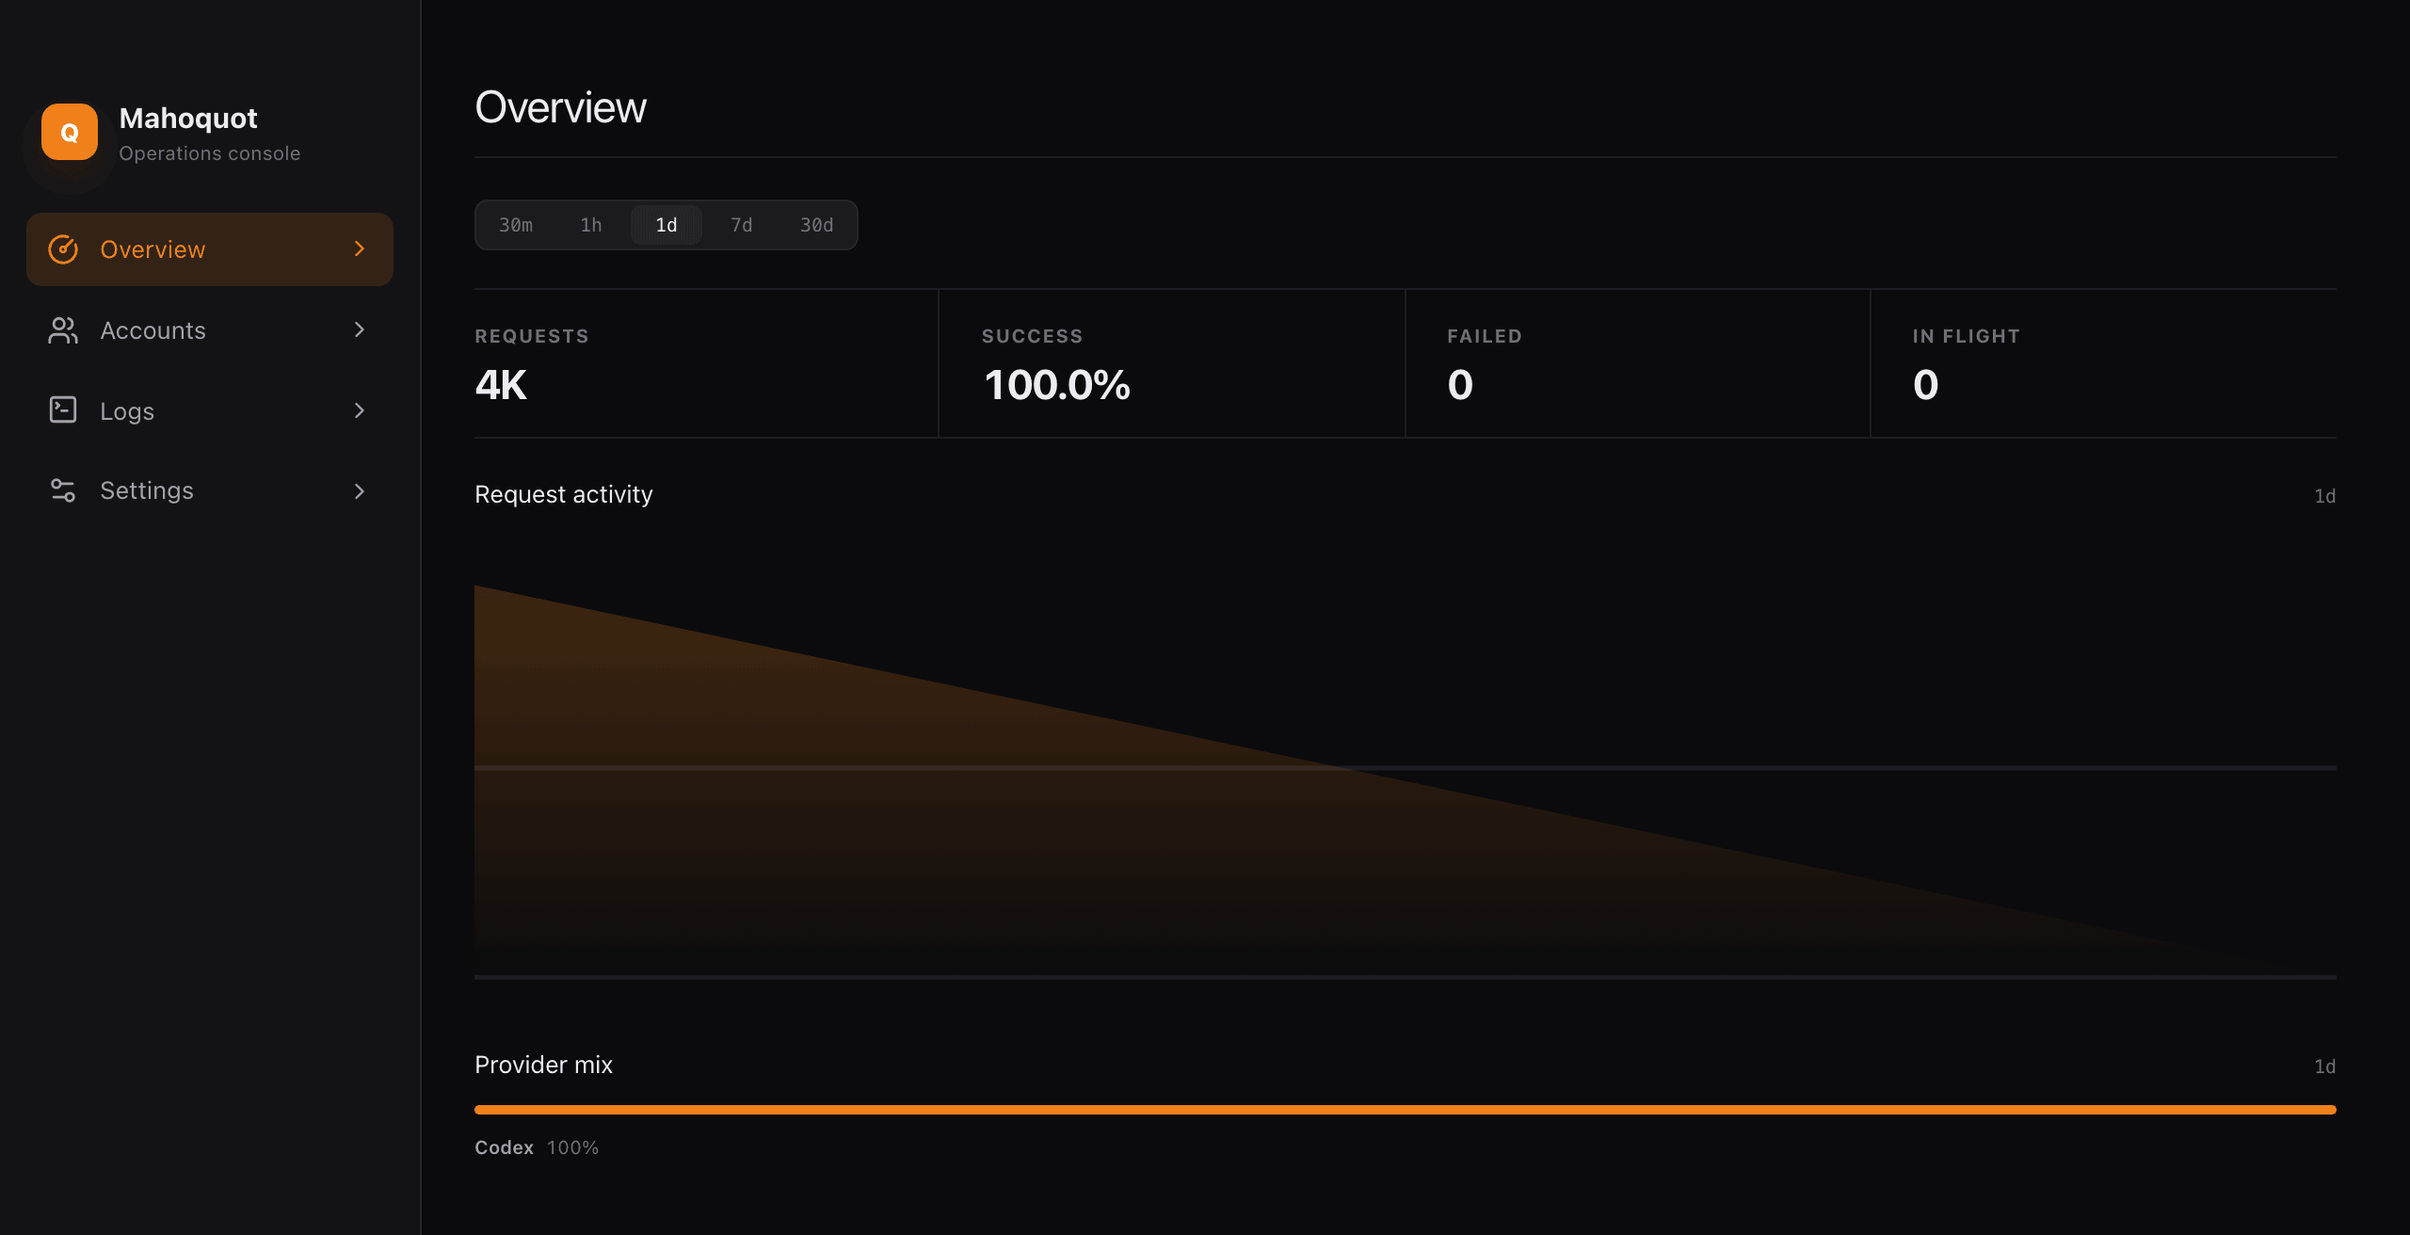
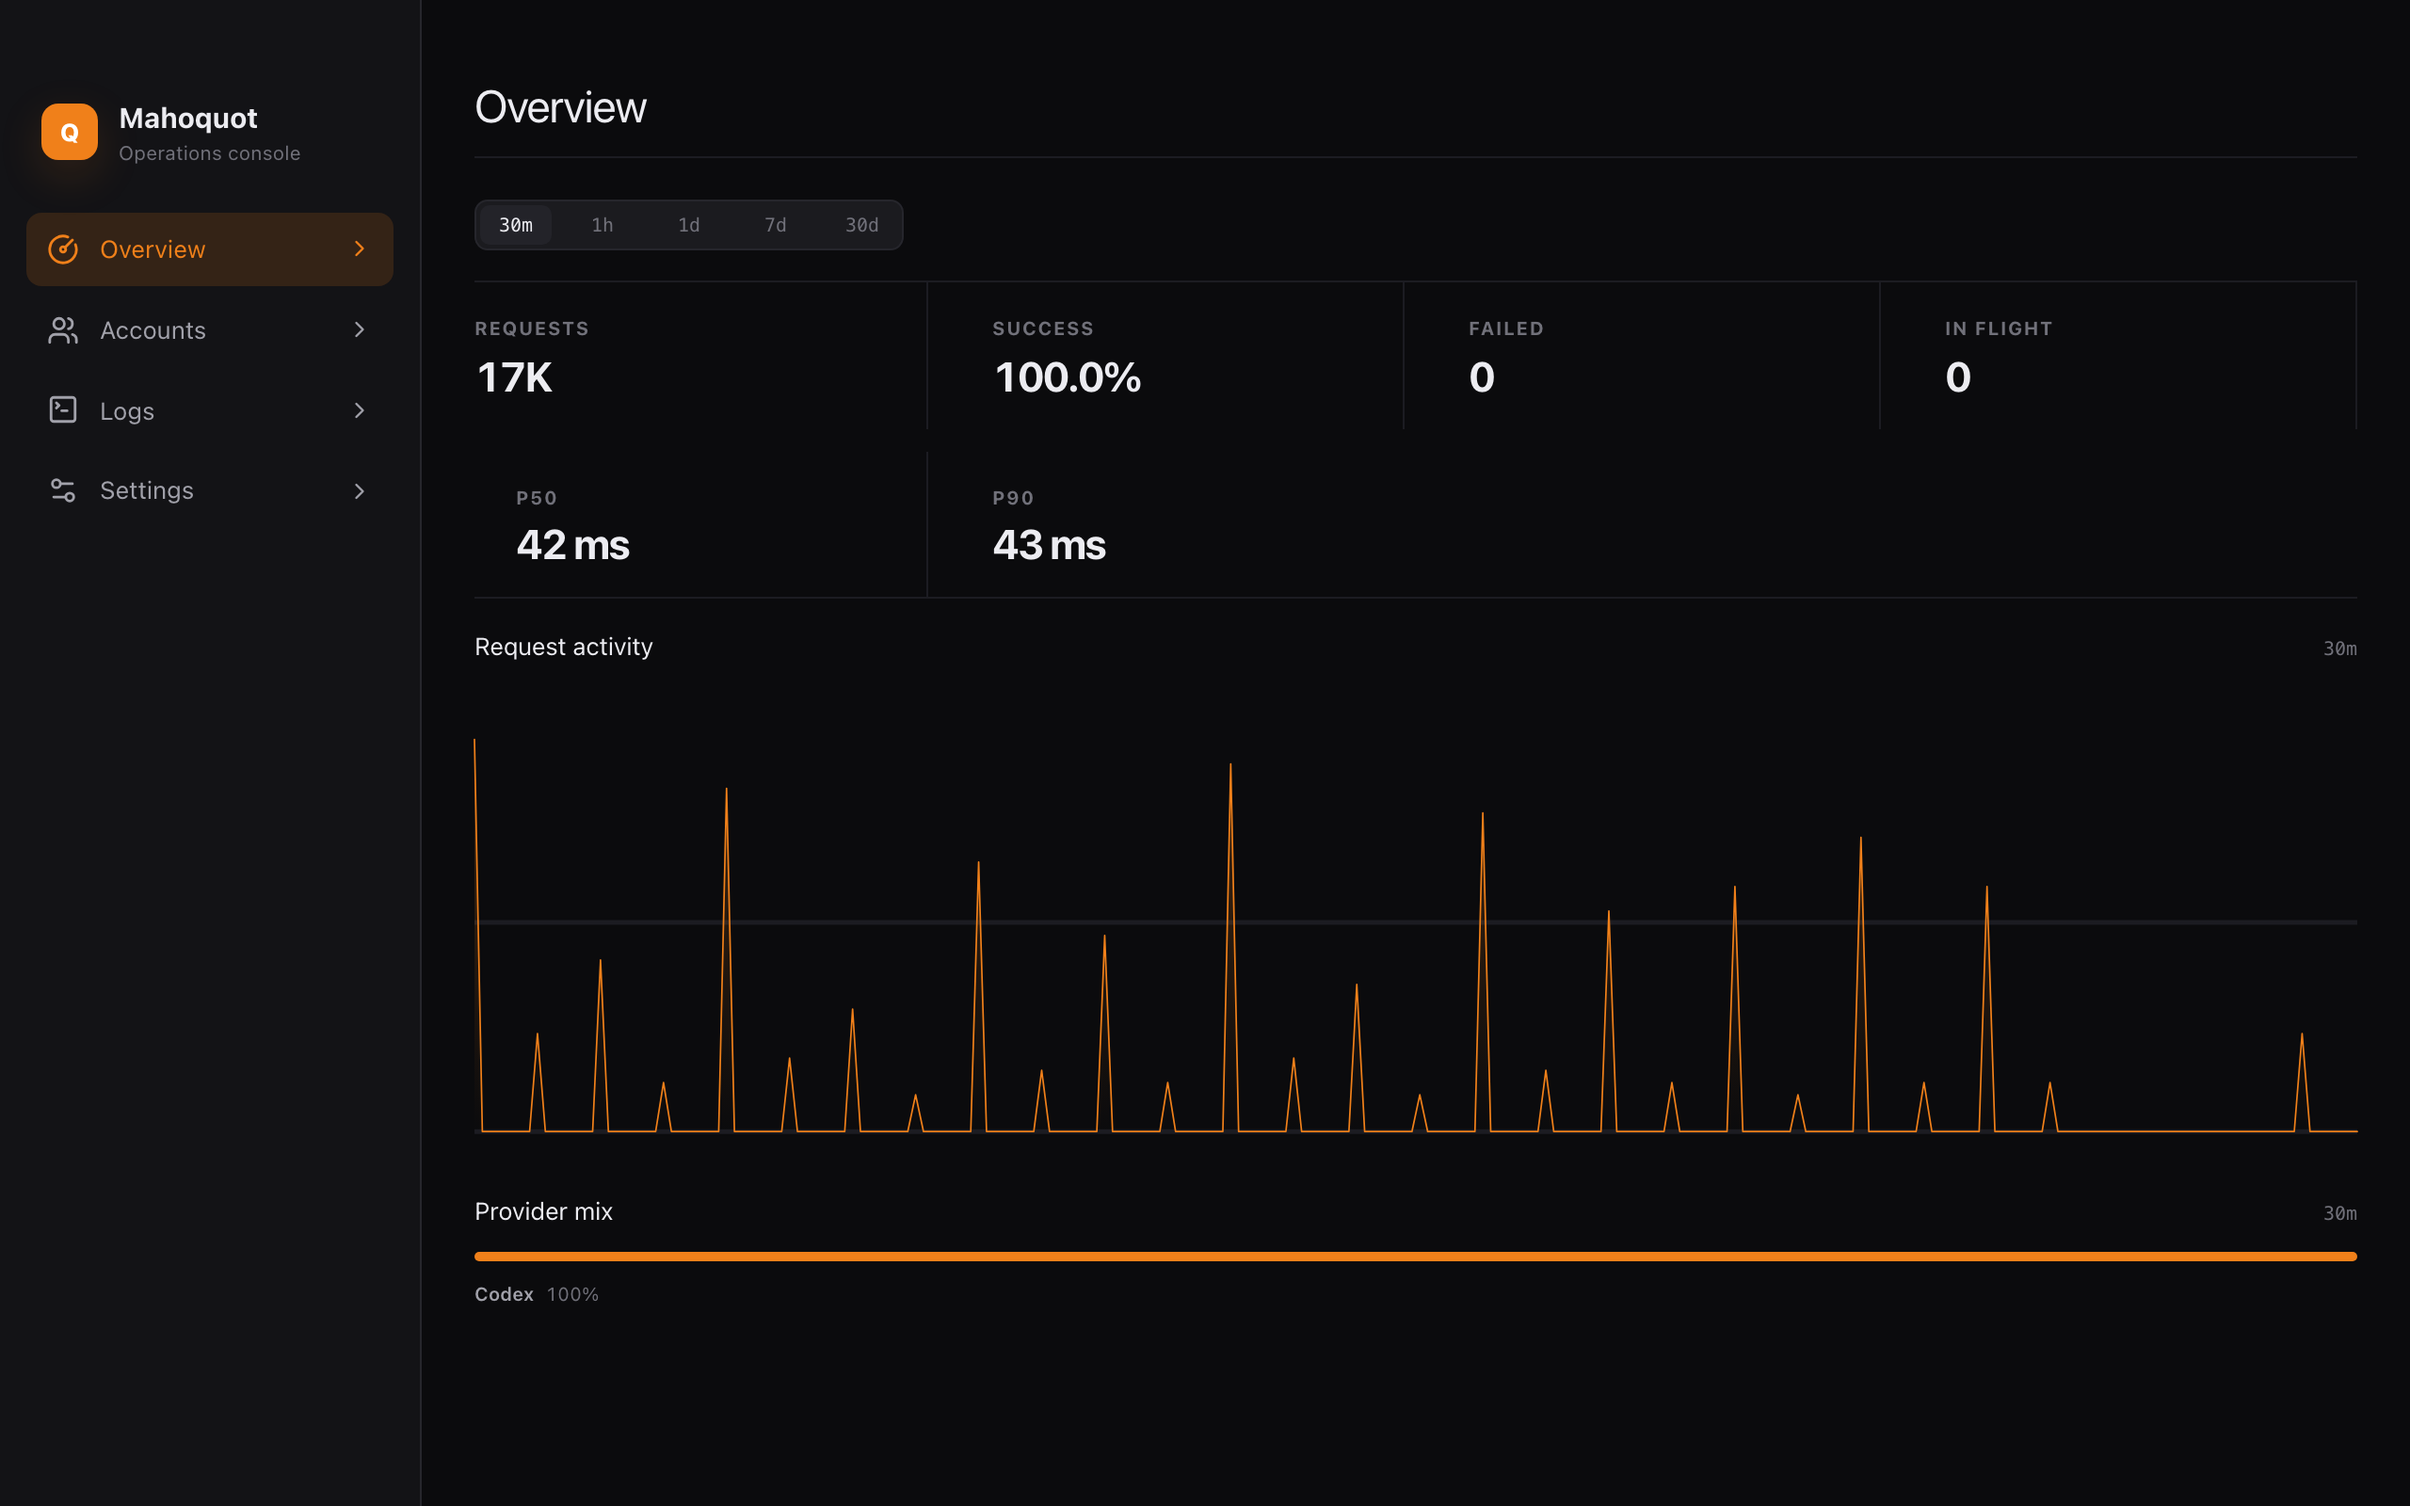
docs(site): recapture console with shaped live traffic and update measured figures

diff --git a/site/src/components/sections/console.tsx b/site/src/components/sections/console.tsx
@@ -26,9 +26,9 @@ export function Console() {
               title="Every number on this page came from a real run."
               lead={
                 <>
-                  Three pooled Codex accounts, {LIVE_RUN.requests} requests at
-                  concurrency {LIVE_RUN.concurrency} driven through the release
-                  build by{" "}
+                  Three pooled Codex accounts, {LIVE_RUN.requests} requests across
+                  26 minutes of burst traffic at concurrency{" "}
+                  {LIVE_RUN.concurrency}, driven through the release build by{" "}
                   <code className="font-mono text-[15px]">tools/bench</code>,
                   read back from{" "}
                   <code className="font-mono text-[15px]">/admin/usage</code>{" "}

diff --git a/site/src/components/sections/hero.tsx b/site/src/components/sections/hero.tsx
@@ -67,7 +67,7 @@ export function Hero() {
         <div className="relative flex items-center overflow-hidden border-line px-6 pb-20 lg:border-l lg:py-28 lg:pl-14 lg:pr-0">
           <img
             src="shots/console-overview.png"
-            alt="Mahoquot operations console showing 4,001 relayed requests at 100% success across a three-account Codex pool"
+            alt="Mahoquot operations console showing 16,950 relayed requests at 100% success across a three-account Codex pool"
             width={1280}
             height={656}
             loading="eager"

diff --git a/site/src/content/site.ts b/site/src/content/site.ts
@@ -116,16 +116,16 @@ export const FEATURES: readonly Feature[] = [
 ] as const;
 
 export const LIVE_RUN = {
-  requests: "4,001",
+  requests: "16,950",
   success: "100%",
   failedOver: "0",
   accounts: "3",
-  p50: "43.01",
-  p90: "43.80",
-  p99: "44.27",
-  rps: "902",
-  concurrency: "40",
-  samples: "1,024",
+  p50: "41.8",
+  p90: "42.6",
+  p99: "42.9",
+  rps: "1,127",
+  concurrency: "20-50",
+  samples: "400",
 } as const;
 
 type BenchRow = {
